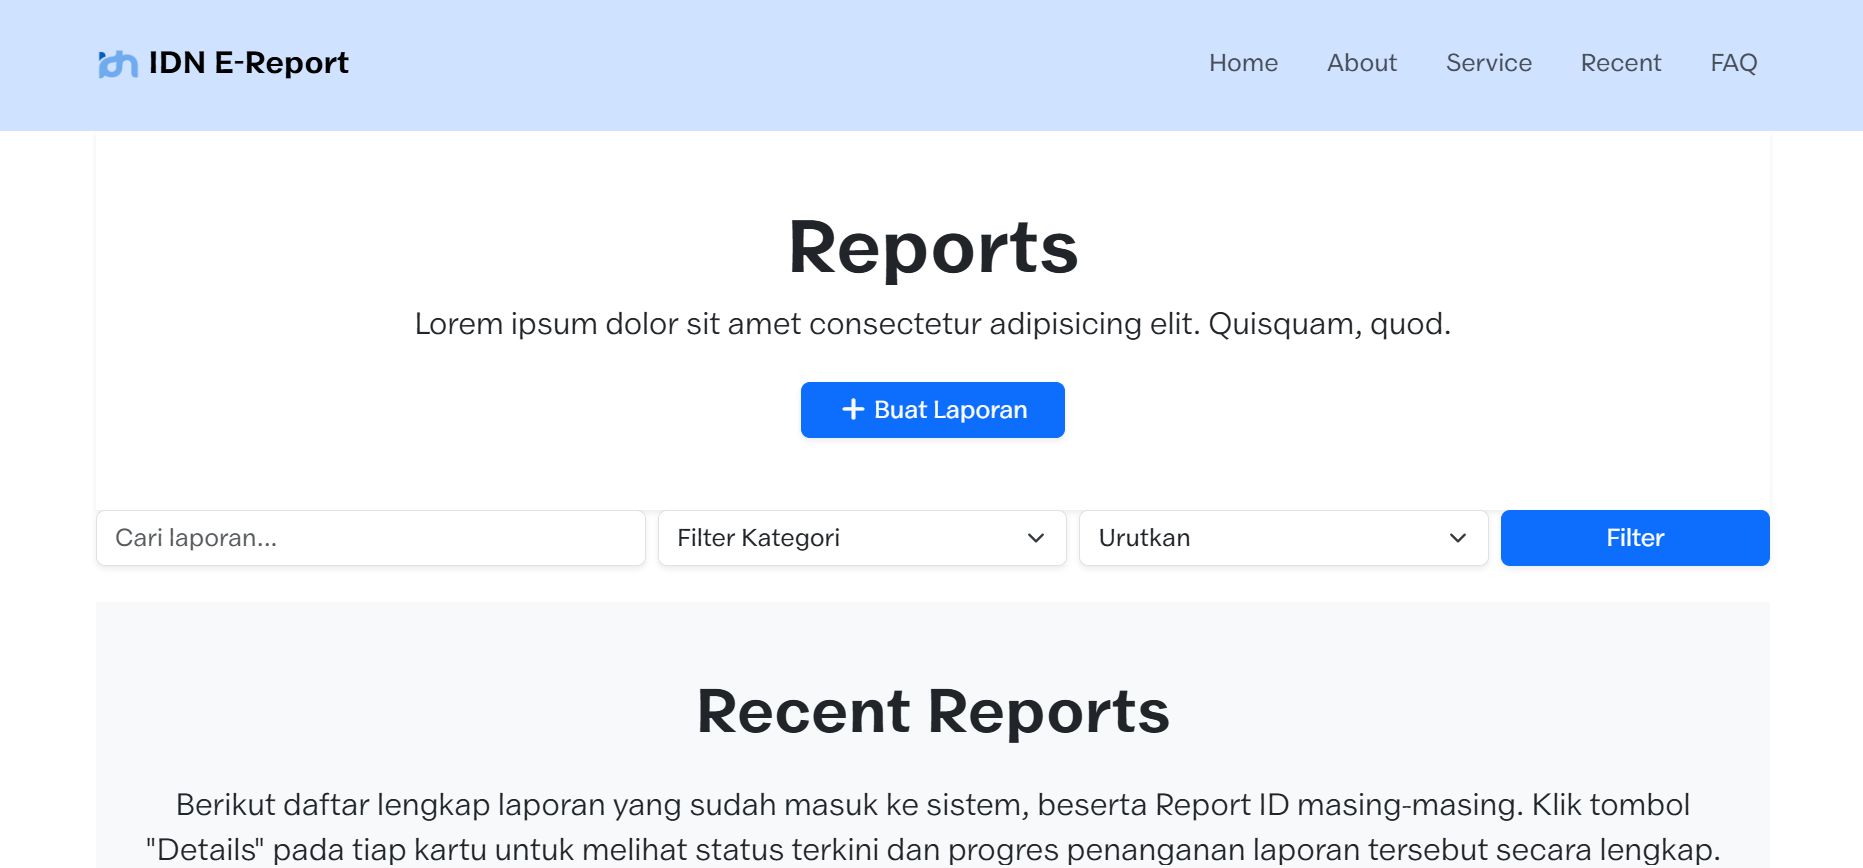
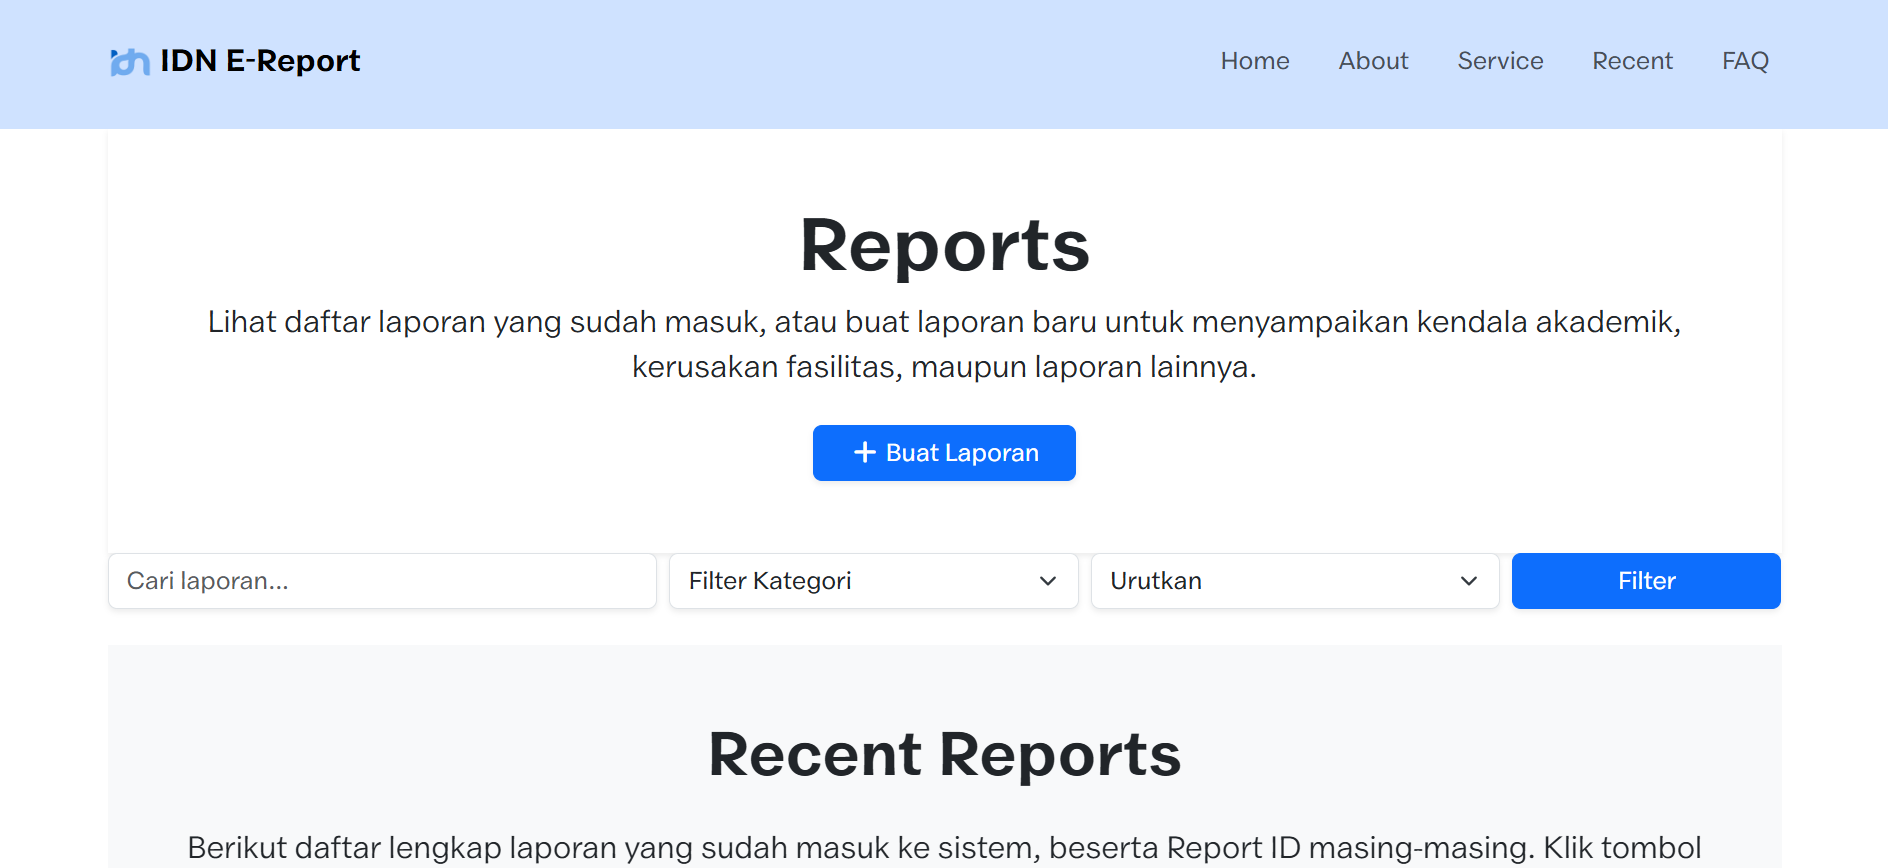
fix it

diff --git a/Guide.html b/Guide.html
@@ -108,7 +108,6 @@
         </div>
     </nav>
     <!-- navbar end -->
-
     <!-- Guide Hero -->
     <section class="py-5 bg-light">
         <div class="container text-center" data-aos="fade-up" data-aos-duration="1000">
@@ -131,7 +130,8 @@
                     <p class="text-secondary">Saat pertama kali membuka website IDN E-Report, kamu akan melihat
                         halaman utama (Home). Di bagian atas ada navbar dengan menu <strong>Home</strong>,
                         <strong>About</strong>, <strong>Service</strong>, <strong>Recent</strong>,
-                        <strong>FAQ</strong>, dan <strong>Guide</strong>. Di bagian Hero juga ada dua tombol: <strong>"Guide"</strong> untuk
+                        <strong>FAQ</strong>, dan <strong>Guide</strong>. Di bagian Hero juga ada dua tombol:
+                        <strong>"Guide"</strong> untuk
                         membuka panduan ini, dan <strong>"Let's start"</strong> untuk langsung menuju halaman
                         laporan.
                     </p>

diff --git a/laporan-masjid-kotor.html b/laporan-masjid-kotor.html
@@ -84,6 +84,9 @@
                     <li class="nav-item">
                         <a class="nav-link text primary" href="index.html#FAQ">FAQ</a>
                     </li>
+                    <li class="nav-item">
+                        <a class="nav-link text primary" href="Guide.html">Guide</a>
+                    </li>
                 </ul>
             </div>
         </div>
@@ -140,8 +143,8 @@
                                     Menumpuk</a></li>
                             <li class="list-group-item"><a href="#" class="text-decoration-none">Laporan Lampu
                                     Mati</a></li>
-                            <li class="list-group-item"><a href="#" class="text-decoration-none">Laporan Air
-                                    Tergenang</a></li>
+                            <li class="list-group-item"><a href="#" class="text-decoration-none">Laporan Keran
+                                    Rusak   </a></li>
                         </ul>
                     </div>
                 </div>

diff --git a/reports.html b/reports.html
@@ -55,6 +55,9 @@
                     <li class="nav-item">
                         <a class="nav-link text primary" href="index.html#FAQ">FAQ</a>
                     </li>
+                    <li class="nav-item">
+                        <a class="nav-link fw-bold text primary" href="Guide.html">Guide</a>
+                    </li>
                 </ul>
             </div>
         </div>
@@ -156,7 +159,7 @@
                                 </div>
                             </div>
                         </div>
-                        
+
                         <div class="col-12 col-md-6 d-flex justify-content-center col-lg-4 mb-4" data-aos="flip-up"
                             data-aos-delay="300">
                             <div class="card" style="width: 18rem;">

diff --git a/laporan-ac-rusak.html b/laporan-ac-rusak.html
@@ -84,6 +84,9 @@
                     <li class="nav-item">
                         <a class="nav-link text primary" href="index.html#FAQ">FAQ</a>
                     </li>
+                    <li class="nav-item">
+                        <a class="nav-link text primary" href="Guide.html">Guide</a>
+                    </li>
                 </ul>
             </div>
         </div>
